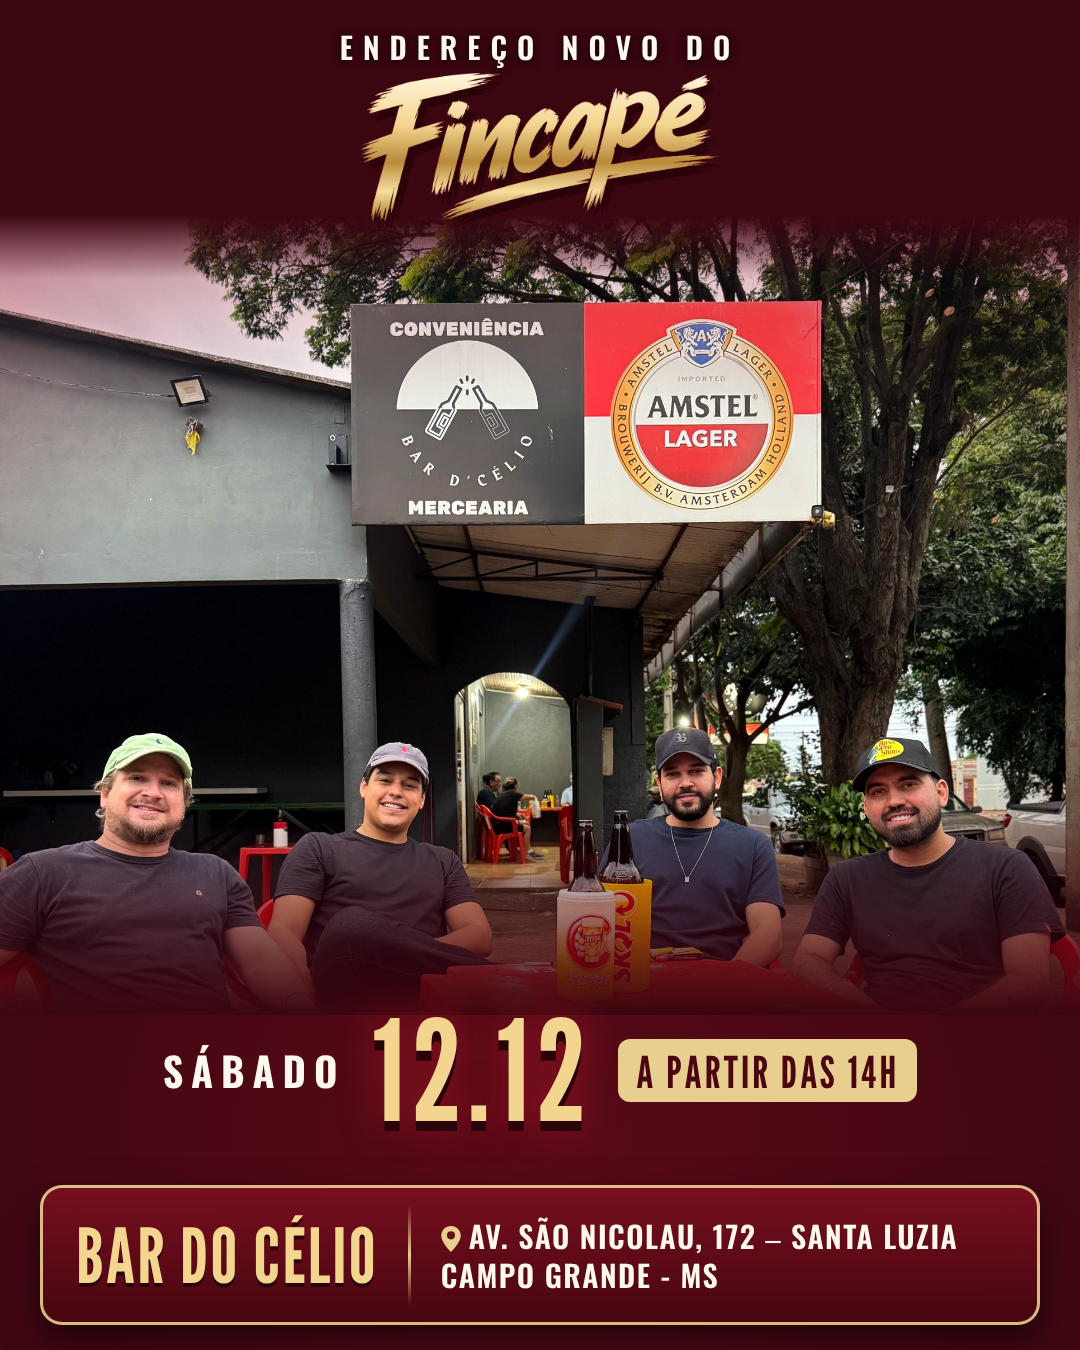
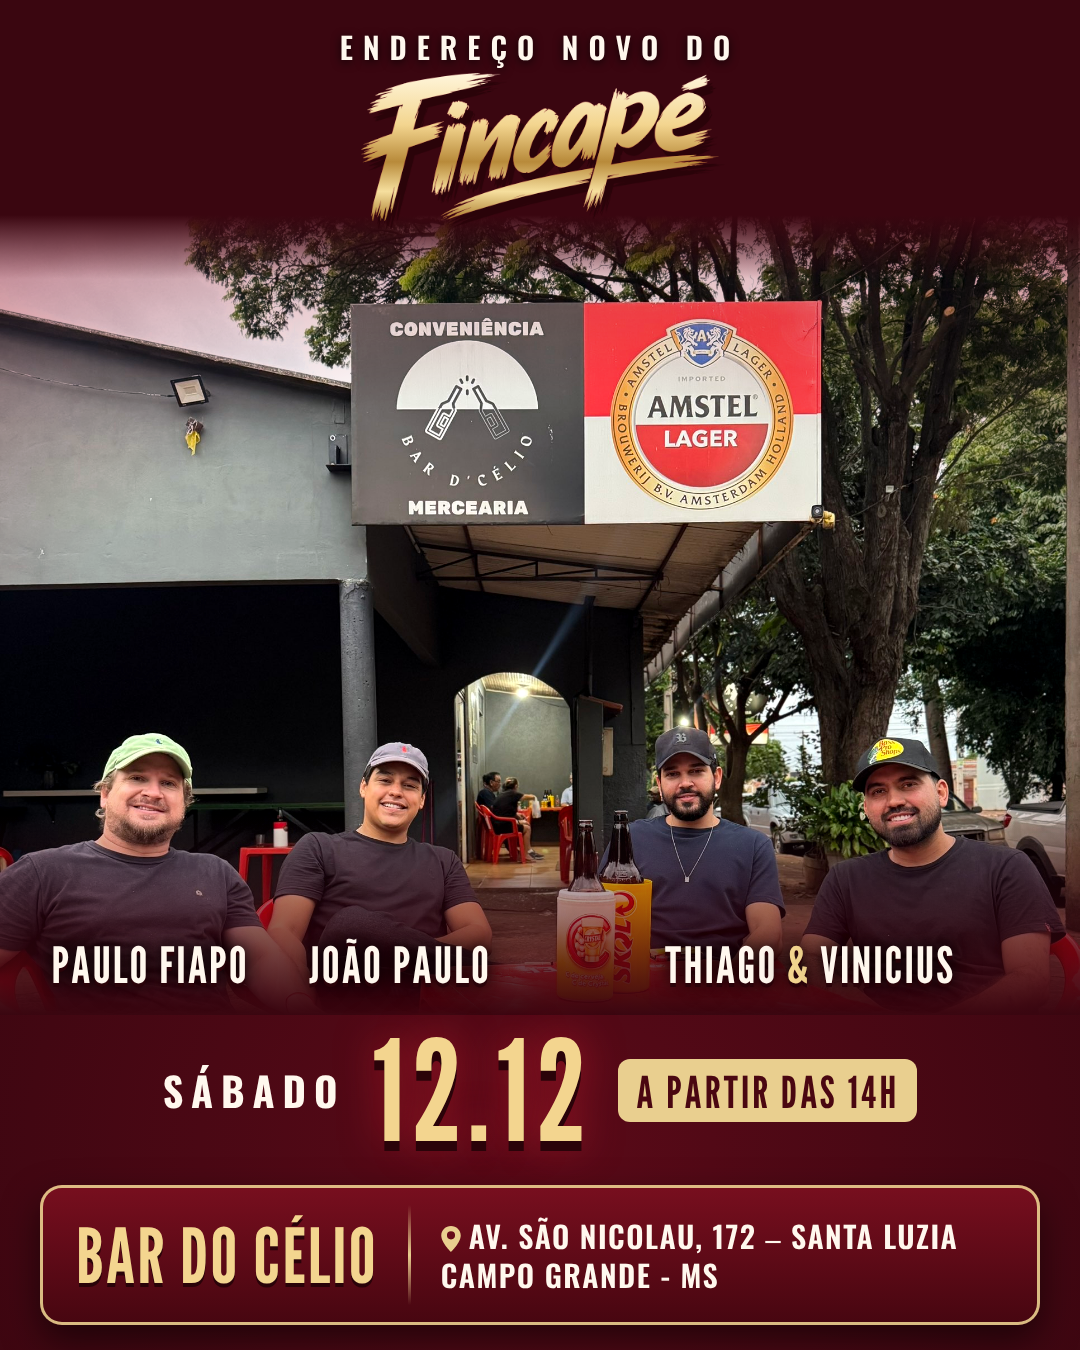
Flyers Bar do Célio: nomes dos artistas (Paulo Fiapo, João Paulo, Thiago & Vinicius)
Claude-Session: https://claude.ai/code/session_011ekbKkesG7Dj1t6fMrmbxk

Changed region(s): [[0.1528, 0.6844, 0.8861, 0.8711], [0.0306, 0.6844, 0.2444, 0.7467]]

diff --git a/trabalho/flyer-celio/flyer.html b/trabalho/flyer-celio/flyer.html
@@ -36,6 +36,15 @@
   body.feed #topo { top: 24px; }
   body.feed .logo { width: 360px; height: 148px; }
 
+  /* Nomes dos artistas */
+  #nomes { position: absolute; left: 0; top: 1215px; width: 1080px; height: 80px; }
+  .art-nome { position: absolute; top: 0; text-align: center; font-size: 56px; letter-spacing: 2px; color: var(--creme); white-space: nowrap;
+    text-shadow: 0 4px 0 #2a0309, 0 0 14px rgba(0,0,0,.95), 0 0 28px rgba(0,0,0,.8); }
+  .art-nome b { color: var(--ouro-claro); font-weight: 400; }
+  #n1 { left: 0; width: 300px; } #n2 { left: 250px; width: 300px; } #n3 { left: 590px; width: 440px; }
+  body.feed #nomes { top: 935px; }
+  body.feed .art-nome { font-size: 50px; }
+
   /* Data grande */
   #data { position: absolute; left: 0; top: 1330px; width: 1080px; text-align: center; }
   #data .dia { font-family: "Oswald"; font-weight: 700; font-size: 44px; letter-spacing: 14px; color: var(--creme); }
@@ -43,7 +52,7 @@
     text-shadow: 0 10px 0 #2a0309, 0 0 40px rgba(200,32,47,.7); }
   #data .hora { display: inline-block; margin-top: 8px; padding: 8px 26px 6px; border-radius: 12px; background: var(--ouro); color: #4a0711;
     font-size: 52px; letter-spacing: 3px; }
-  body.feed #data { top: 1010px; display: flex; align-items: center; justify-content: center; gap: 26px; }
+  body.feed #data { top: 1030px; display: flex; align-items: center; justify-content: center; gap: 26px; }
   body.feed #data .dia { font-size: 40px; letter-spacing: 8px; }
   body.feed #data .num { font-size: 140px; }
   body.feed #data .hora { font-size: 44px; padding: 6px 18px 4px; margin-top: 0; }
@@ -72,6 +81,12 @@
   <div id="topo">
     <div class="sub">ENDEREÇO NOVO DO</div>
     <div class="logo"><div class="sombra"></div><div class="glow"></div><div class="ouro"></div></div>
+  </div>
+
+  <div id="nomes">
+    <div class="art-nome" id="n1">PAULO FIAPO</div>
+    <div class="art-nome" id="n2">JOÃO PAULO</div>
+    <div class="art-nome" id="n3">THIAGO <b>&amp;</b> VINICIUS</div>
   </div>
 
   <div id="data">
